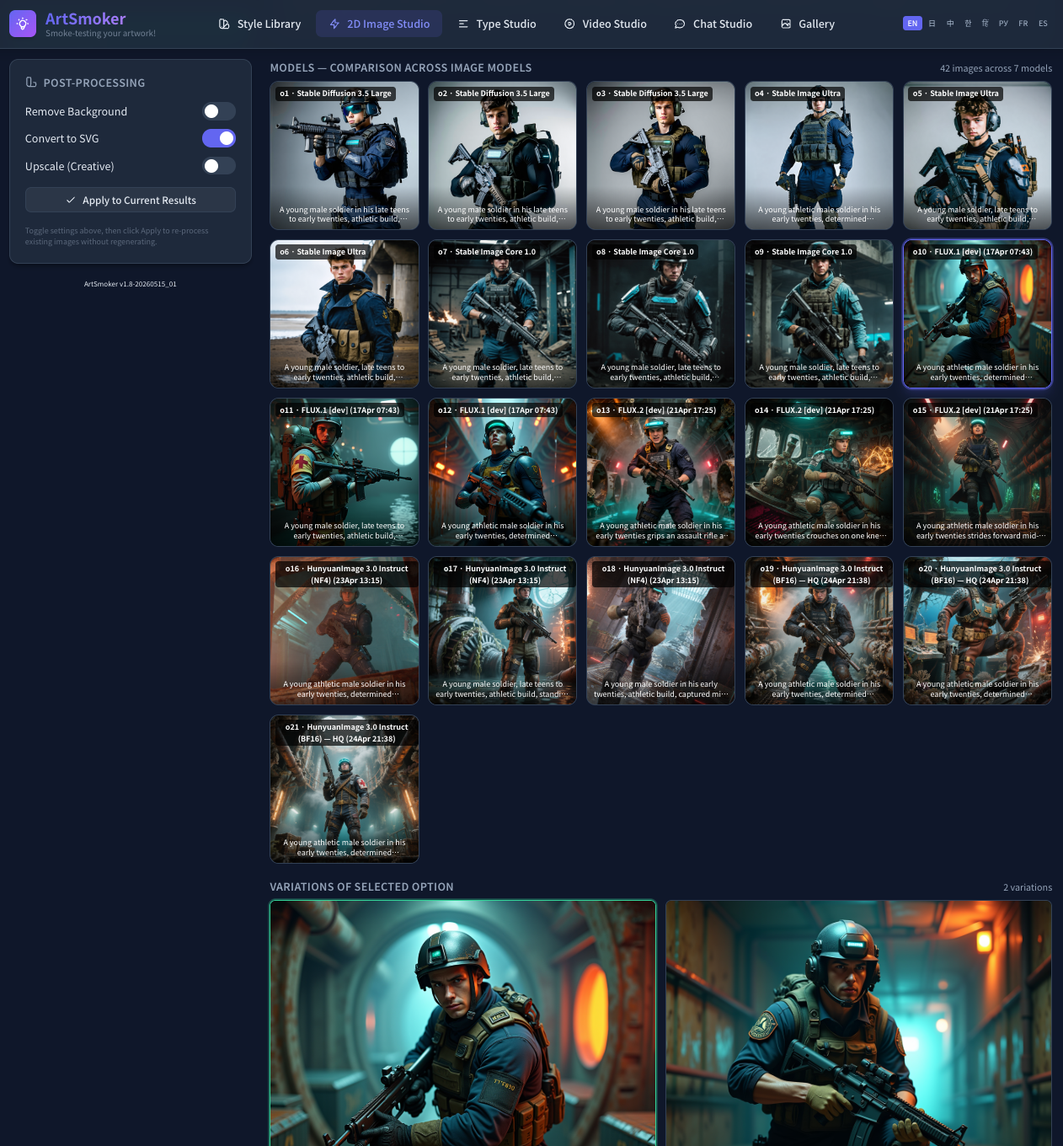
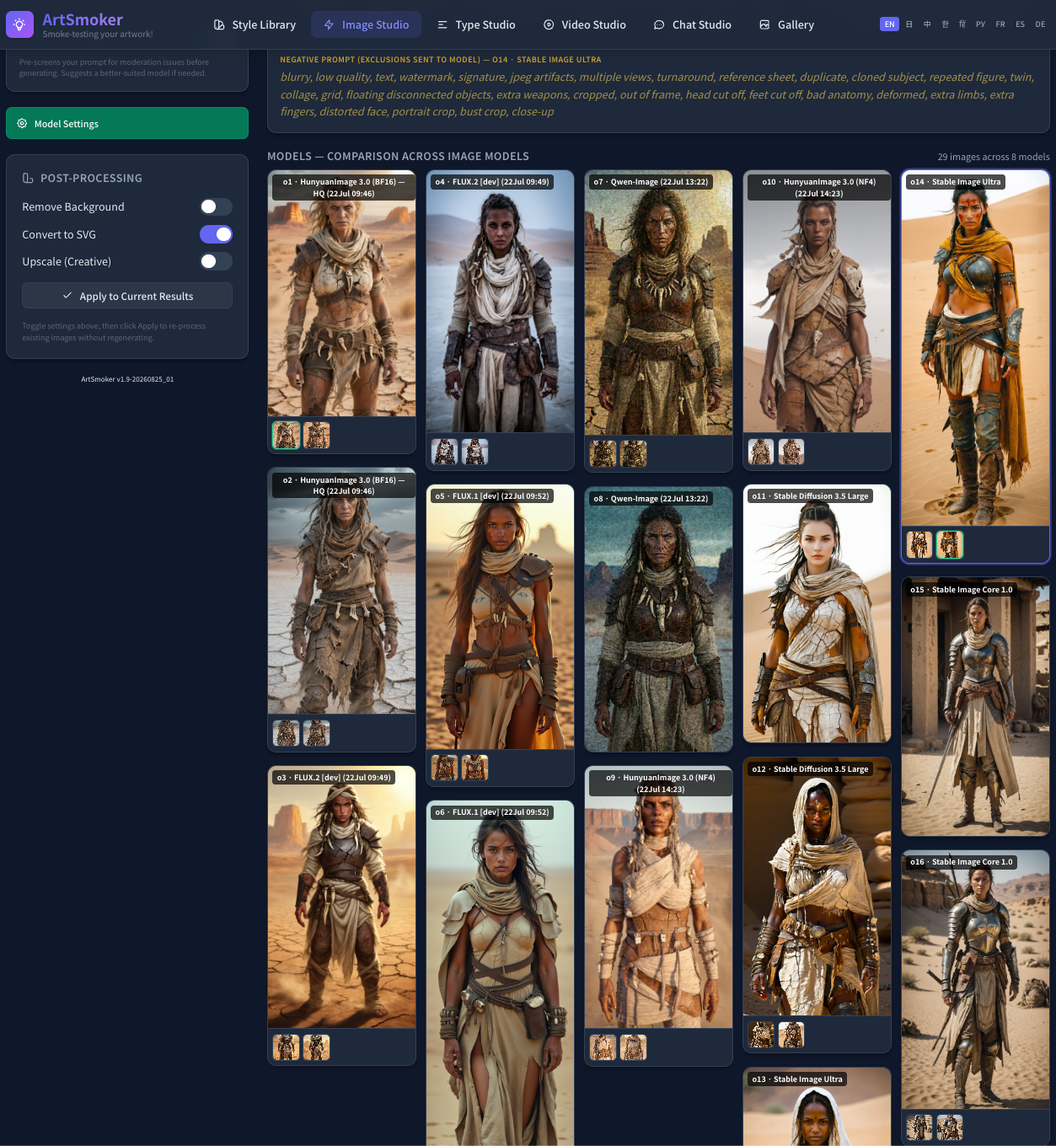
Docs: refresh all README screenshots to current UI + 8 new feature figures
The screenshot set dated from a much older ArtSmoker (old tab names, 7-model
grid, no Image Inspiration / Export & Cutouts / engine export / 3D variants).
Replaced with current-version captures and extended coverage; the soldier 3D
multi-angle figure (3d-model-result.png) stays — still accurate.

Replaced (same filenames): image-studio-top / -results / -comparison,
asset-viewer, asset-viewer-edit (now the Extend mode with ruler + ✨ Generate
Prompt), 3d-model-generation (endpoint chooser, license panel, Improve the
Source), gallery.

New figures: image-inspiration + image-inspiration-results (reference-guided
flow with editable enhanced-prompt preview), asset-viewer-export-cutouts +
-outpainted (per-version SVG/cutout artefacts, before/after outpainting),
asset-viewer-metadata (full prompt lineage + version history),
3d-source-review (automatic crop detection), 3d-model-viewer-export
(engine-ready FBX/USD options + ready-to-download chips), 3d-model-variants
(TripoSG vs TRELLIS.2 with provenance).

All 9 READMEs updated (EN + JA/ZH/KO/HI/RU/FR/ES/DE): four stale captions
corrected (tab lists, 8 models, current 3D params) and the new figure captions
natively translated; image reference set verified identical (24 refs) across
all languages, every file present, no unreferenced images left. Two
near-duplicate source shots dropped. Registry file carries the sync timestamp
from today's pricing refresh (data lives in the user overlay).

diff --git a/README.ru.md b/README.ru.md
@@ -120,9 +120,17 @@ ArtSmoker работает в двух режимах — **автономном
 
 ![2D Image Studio — Улучшенный промпт и результаты генерации](docs/images/image-studio-results.png)
 
-**2D Image Studio — Сравнение моделей** — Сетка сравнения бок о бок по всем выбранным моделям (показано 7 моделей). Вариации выбранного варианта отображаются ниже. Переключатели постобработки (Remove Background, Convert to SVG, Upscale) слева.
+**2D Image Studio — Сравнение моделей** — Сетка сравнения бок о бок по всем выбранным моделям (показано 8 — Amazon Bedrock и самостоятельно размещённые наравне). Каждая карточка варианта несёт собственную ленту вариаций; для выбранного варианта показан негативный промпт конкретной модели. Переключатели постобработки (Remove Background, Convert to SVG, Upscale) применяются к готовым результатам без повторной генерации.
 
 ![2D Image Studio — Мультимодельная сетка сравнения с вариациями](docs/images/image-studio-comparison.png)
+
+**Image Inspiration (по референсу)** — Перетащите 1–3 референсных изображения, опишите, что вам нужно, и выберите способ использования: **Точно по референсу** (пиксельно-точное редактирование на развёрнутой модели редактирования изображений) или **Вдохновлено референсом** (визуальный ИИ пишет улучшенный промпт — работает с любым выбором моделей, вариантов и вариаций). Полученный промпт можно просмотреть и полностью отредактировать до генерации.
+
+![Image Inspiration — референсные изображения, инструкция и редактируемый предпросмотр улучшенного промпта](docs/images/image-inspiration.png)
+
+**Image Inspiration — Результаты** — Референс становится новым произведением (здесь — шарж по референсной фотографии); записываются точный промпт, отправленный модели, и стоимость каждого изображения.
+
+![Image Inspiration — шарж, сгенерированный по референсному изображению](docs/images/image-inspiration-results.png)
 
 **Prompt Designer** — ИИ разбирает ваш промпт на редактируемые визуальные компоненты (Subject, Scene, Composition, Lighting, Style & Colors). Каждое поле можно индивидуально редактировать с переключателями «зафиксировать/варьировать» для создания действительно различных творческих вариантов.
 
@@ -142,17 +150,41 @@ ArtSmoker работает в двух режимах — **автономном
 
 ![Галерея — Сетка сгенерированных ассетов с фильтрами](docs/images/gallery.png)
 
-**Asset Viewer** — Полноразмерный предпросмотр с табличным интерфейсом (PNG, Edit, SVG, Metadata, 3D Model). Скачивание PNG и SVG напрямую. Компоновка прозрачного фона показана с шахматным узором.
+**Asset Viewer** — Полноразмерный предпросмотр с вкладками (PNG, Edit, Export & Cutouts, Metadata, 3D Model), панелью версий изображения и прямым скачиванием PNG/SVG. Управление зумом/подгонкой/измерением поверх изображения на шахматном фоне.
 
 ![Asset Viewer — Полноразмерный предпросмотр с опциями скачивания](docs/images/asset-viewer.png)
 
-**Asset Viewer — Редактирование изображений** — Вкладка Edit с инпейнтингом: нарисуйте маску на области для изменения, опишите, что хотите получить, выберите модель редактирования и примените. История версий сохраняется — оригиналы никогда не перезаписываются.
+**Asset Viewer — Редактирование изображений** — Пять режимов: Заполнить/Заменить, Удалить, Расширить, Найти и заменить, Перекрасить. Показан режим **Расширить**: измерительная линейка, пиксельные значения по сторонам и кнопка ✨ Сгенерировать промпт, которая читает изображение и пишет промпт редактирования за вас. История версий сохраняется — оригиналы никогда не перезаписываются.
 
-![Asset Viewer — Инпейнтинг с маской и промптом](docs/images/asset-viewer-edit.png)
+![Asset Viewer — Расширение с измерительной линейкой и промптом от ИИ](docs/images/asset-viewer-edit.png)
 
-**Генерация 3D-моделей** — Конвертируйте любое изображение Game Asset или Character в текстурированный 3D-меш (GLB). Настройте разрешение marching cubes, соотношение переднего плана и параметры генерации прямо во вкладке 3D Model в Asset Viewer.
+**Asset Viewer — Export & Cutouts** — Артефакты для каждой версии, готовые для игры, движка или дизайн-инструмента: векторный SVG всего изображения, вырезка PNG без фона и вырезка SVG. Удаление фона выполняется на вашем устройстве бесплатно (опционально — платная обработка Amazon Bedrock).
+
+![Asset Viewer — Export & Cutouts с векторным SVG и вырезками без фона](docs/images/asset-viewer-export-cutouts.png)
+
+После раунда аутпейнтинга (v3 ниже) та же вкладка заново создаёт все три артефакта для улучшенной версии в полный рост.
+
+![Asset Viewer — Export & Cutouts для расширенной версии в полный рост](docs/images/asset-viewer-export-cutouts-outpainted.png)
+
+**Asset Viewer — Metadata** — Полная родословная промпта (ваш промпт → декомпозиция Prompt Designer → рекомпозированный промпт → доработанный под модель промпт), детали генерации, разбивка стоимости и полная история версий.
+
+![Asset Viewer — Metadata с полной родословной промпта и историей версий](docs/images/asset-viewer-metadata.png)
+
+**Генерация 3D-моделей** — Вкладка 3D Model в Asset Viewer: выберите эндпоинт развёрнутого пайплайна, уровень качества (с оценкой времени и стоимости) и расширенные параметры. Панель лицензий показывает условия каждого пайплайна, а **Improve the Source** визуально проверяет изображение до траты GPU-времени.
 
 ![Генерация 3D-моделей — Настройки и генерация в Asset Viewer](docs/images/3d-model-generation.png)
+
+**Improve the Source** — Перед генерацией ArtSmoker измеряет силуэт объекта и отмечает обрезку (здесь: срез по нижнему краю), предлагая величину расширения и промпт аутпейнтинга, написанный ИИ, — расширьте, заполните или используйте изображение как есть.
+
+![Проверка 3D-исходника — автоматическое определение обрезки с предложенным расширением](docs/images/3d-source-review.png)
+
+**3D-просмотрщик + экспорт для движков** — Осмотрите текстурированный меш со всех сторон, затем подготовьте его для движка: целевой пресет (Unreal, Unity, Godot, Blender, 3ds Max…), упаковка текстур, цепочка LOD, коллизионный меш и лайтмап UV2 — конвертация выполняется локально через безголовый Blender, а готовые к скачиванию комбинации запоминаются для каждой версии.
+
+![3D-просмотрщик с инструментами по вариантам и экспортом FBX/USD для движков](docs/images/3d-model-viewer-export.png)
+
+**3D-варианты** — Храните несколько 3D-результатов на версию изображения (здесь TripoSG против полного пайплайна TRELLIS.2), переключайтесь между ними или назначайте вариант по умолчанию в любой момент; каждый вариант записывает точные модели и инструменты, которыми был создан.
+
+![3D-варианты — TripoSG и TRELLIS.2 бок о бок с полным происхождением](docs/images/3d-model-variants.png)
 
 **Video Studio** — Настройки слева (модель, режим генерации, длительность, регион, оценка стоимости), промпт справа. Поддерживает Nova Reel (одиночный кадр, мультишот авто/ручной до 2 минут) и Luma AI Ray (соотношения сторон, зацикливание).
 

diff --git a/README.fr.md b/README.fr.md
@@ -120,9 +120,17 @@ Pour les équipes qui veulent que chaque asset généré corresponde à un style
 
 ![2D Image Studio — Prompt amélioré et résultats de génération](docs/images/image-studio-results.png)
 
-**2D Image Studio — Comparaison de modèles** — Grille de comparaison côte à côte de tous les modèles sélectionnés (7 modèles affichés). Les variations de l'option sélectionnée sont affichées en dessous. Bascules de post-traitement à gauche (Remove Background, Convert to SVG, Upscale).
+**2D Image Studio — Comparaison de modèles** — Grille de comparaison côte à côte de tous les modèles sélectionnés (8 affichés — Amazon Bedrock et auto-hébergés à égalité). Chaque carte d'option porte sa propre bande de variations ; le prompt négatif propre au modèle est affiché pour l'option sélectionnée. Les bascules de post-traitement (Remove Background, Convert to SVG, Upscale) s'appliquent aux résultats existants sans régénération.
 
 ![2D Image Studio — Grille de comparaison multi-modèle avec variations](docs/images/image-studio-comparison.png)
+
+**Image Inspiration (guidée par référence)** — Déposez 1 à 3 images de référence, dites ce que vous voulez, et choisissez leur usage : **Fidèle à la référence** (édition fidèle au pixel sur un modèle d'édition d'images déployé) ou **Inspiré de la référence** (une IA de vision écrit le prompt enrichi — fonctionne avec n'importe quelle sélection de modèles, options et variations). Le prompt dérivé est prévisualisé et entièrement modifiable avant la génération.
+
+![Image Inspiration — images de référence, instruction et prévisualisation modifiable du prompt enrichi](docs/images/image-inspiration.png)
+
+**Image Inspiration — Résultats** — La référence devient une nouvelle création (ici, une caricature dessinée à partir de la photo de référence), avec le prompt exact envoyé au modèle et le coût par image enregistrés.
+
+![Image Inspiration — caricatures générées à partir d'une image de référence](docs/images/image-inspiration-results.png)
 
 **Prompt Designer** — L'IA décompose votre prompt en composants visuels éditables (Subject, Scene, Composition, Lighting, Style & Colors). Chaque champ peut être édité individuellement avec des contrôles verrouiller/varier pour des options créatives véritablement distinctes.
 
@@ -142,17 +150,41 @@ Pour les équipes qui veulent que chaque asset généré corresponde à un style
 
 ![Galerie — Grille d'assets générés avec filtres](docs/images/gallery.png)
 
-**Asset Viewer** — Aperçu en taille réelle avec interface à onglets (PNG, Edit, SVG, Metadata, 3D Model). Téléchargement direct des PNG et SVG. Compositing sur fond transparent affiché avec motif en damier.
+**Asset Viewer** — Aperçu en taille réelle avec interface à onglets (PNG, Edit, Export & Cutouts, Metadata, 3D Model), barre de versions de l'image et téléchargement direct PNG/SVG. Contrôles zoom/ajustement/mesure sur l'image composée en damier.
 
 ![Asset Viewer — Aperçu en taille réelle avec options de téléchargement](docs/images/asset-viewer.png)
 
-**Asset Viewer — Édition d'images** — Onglet Edit avec inpainting : peignez un masque sur la zone à modifier, décrivez ce que vous souhaitez, sélectionnez un modèle d'édition et appliquez. L'historique des versions est préservé — les originaux ne sont jamais écrasés.
+**Asset Viewer — Édition d'images** — Cinq modes d'édition : Remplir/Remplacer, Supprimer, Étendre, Rechercher et remplacer, Recolorer. Ici : **Étendre**, avec la règle de mesure, les valeurs en pixels par côté et le bouton ✨ Générer le prompt, qui lit l'image et écrit le prompt d'édition pour vous. L'historique des versions est préservé — les originaux ne sont jamais écrasés.
 
-![Asset Viewer — Inpainting avec masque et prompt](docs/images/asset-viewer-edit.png)
+![Asset Viewer — Extension avec règle de mesure et prompt suggéré par l'IA](docs/images/asset-viewer-edit.png)
 
-**Génération de modèle 3D** — Convertissez n'importe quelle image Game Asset ou Character en un maillage 3D texturé (GLB). Configurez la résolution des marching cubes, le ratio de premier plan et les paramètres de génération directement dans l'onglet 3D Model de l'Asset Viewer.
+**Asset Viewer — Export & Cutouts** — Des artefacts par version, prêts pour votre jeu, moteur ou outil de design : SVG vectoriel de l'image complète, découpe PNG sans arrière-plan et découpe SVG. La suppression d'arrière-plan s'exécute gratuitement sur votre machine (un traitement payant Amazon Bedrock est optionnel).
+
+![Asset Viewer — Export & Cutouts avec SVG vectoriel et découpes sans arrière-plan](docs/images/asset-viewer-export-cutouts.png)
+
+Après un passage d'outpainting (v3 ci-dessous), le même onglet régénère les trois artefacts pour la version corps entier améliorée.
+
+![Asset Viewer — Export & Cutouts pour la version corps entier après outpainting](docs/images/asset-viewer-export-cutouts-outpainted.png)
+
+**Asset Viewer — Metadata** — La généalogie complète du prompt (votre prompt → décomposition Prompt Designer → prompt recomposé → prompt raffiné adapté au modèle), les détails de génération, la ventilation des coûts et l'historique complet des versions.
+
+![Asset Viewer — Metadata avec généalogie complète du prompt et historique des versions](docs/images/asset-viewer-metadata.png)
+
+**Génération de modèle 3D** — L'onglet 3D Model de l'Asset Viewer : choisissez l'endpoint du pipeline déployé, le niveau de qualité (avec temps et coût estimés) et les paramètres avancés. Le panneau de licence affiche les conditions de chaque pipeline, et **Improve the Source** vérifie visuellement l'image avant de consommer du temps GPU.
 
 ![Génération de modèle 3D — Paramètres et génération dans l'Asset Viewer](docs/images/3d-model-generation.png)
+
+**Improve the Source** — Avant la génération, ArtSmoker mesure la silhouette du sujet et signale les recadrages (ici : coupé au bord inférieur), en suggérant les valeurs d'extension et un prompt d'outpainting écrit par l'IA — étendez, remplissez, ou utilisez l'image telle quelle.
+
+![Vérification de la source 3D — détection automatique de recadrage avec extension suggérée](docs/images/3d-source-review.png)
+
+**Visionneuse 3D + export prêt pour moteur** — Orbitez autour du maillage texturé, puis préparez-le pour votre moteur : préréglage cible (Unreal, Unity, Godot, Blender, 3ds Max…), packing de textures, chaîne de LOD, maillage de collision et lightmap UV2 — converti localement via Blender headless, avec les combinaisons prêtes au téléchargement mémorisées par version.
+
+![Visionneuse 3D avec outils par variante et options d'export FBX/USD prêtes pour moteur](docs/images/3d-model-viewer-export.png)
+
+**Variantes 3D** — Conservez plusieurs rendus 3D par version d'image (ici TripoSG contre le pipeline complet TRELLIS.2), basculez entre eux ou définissez le défaut à tout moment ; chaque variante enregistre les modèles et outils exacts qui l'ont produite.
+
+![Variantes 3D — TripoSG et TRELLIS.2 côte à côte avec provenance complète](docs/images/3d-model-variants.png)
 
 **Video Studio** — Paramètres à gauche (modèle, mode de génération, durée, région, estimation des coûts), prompt à droite. Prend en charge Nova Reel (plan unique, multi-shot auto/manuel jusqu'à 2 minutes) et Luma AI Ray (rapports d'aspect, boucle).
 

diff --git a/README.es.md b/README.es.md
@@ -120,9 +120,17 @@ Para equipos que desean que cada recurso generado coincida con un estilo artíst
 
 ![2D Image Studio — Prompt mejorado y resultados de generación](docs/images/image-studio-results.png)
 
-**2D Image Studio — Comparación de modelos** — Cuadrícula de comparación lado a lado de todos los modelos seleccionados (7 modelos mostrados). Las variaciones de la opción seleccionada se muestran abajo. Interruptores de postprocesamiento a la izquierda (Remove Background, Convert to SVG, Upscale).
+**2D Image Studio — Comparación de modelos** — Cuadrícula de comparación lado a lado de todos los modelos seleccionados (8 mostrados — Amazon Bedrock y autoalojados por igual). Cada tarjeta de opción lleva su propia tira de variaciones; para la opción seleccionada se muestra el prompt negativo específico del modelo. Los interruptores de postprocesamiento (Remove Background, Convert to SVG, Upscale) se aplican a los resultados existentes sin regenerar.
 
 ![2D Image Studio — Cuadrícula de comparación multimodelo con variaciones](docs/images/image-studio-comparison.png)
+
+**Image Inspiration (guiada por referencia)** — Suelta de 1 a 3 imágenes de referencia, di lo que quieres y elige cómo usarlas: **Fiel a la referencia** (edición fiel al píxel en un modelo de edición de imágenes desplegado) o **Inspirado en la referencia** (una IA de visión escribe el prompt mejorado — funciona con cualquier selección de modelos, opciones y variaciones). El prompt derivado se previsualiza y es totalmente editable antes de generar.
+
+![Image Inspiration — imágenes de referencia, instrucción y vista previa editable del prompt mejorado](docs/images/image-inspiration.png)
+
+**Image Inspiration — Resultados** — La referencia se convierte en una nueva creación (aquí, una caricatura dibujada a partir de la foto de referencia), registrando el prompt exacto enviado al modelo y el coste por imagen.
+
+![Image Inspiration — caricaturas generadas a partir de una imagen de referencia](docs/images/image-inspiration-results.png)
 
 **Prompt Designer** — La IA descompone su prompt en componentes visuales editables (Subject, Scene, Composition, Lighting, Style & Colors). Cada campo se puede editar individualmente con controles de bloquear/variar para opciones creativas genuinamente distintas.
 
@@ -142,17 +150,41 @@ Para equipos que desean que cada recurso generado coincida con un estilo artíst
 
 ![Galería — Cuadrícula de recursos generados con filtros](docs/images/gallery.png)
 
-**Asset Viewer** — Vista previa a tamaño completo con interfaz de pestañas (PNG, Edit, SVG, Metadata, 3D Model). Descarga directa de PNG y SVG. La composición de fondo transparente se muestra con un patrón de tablero de ajedrez.
+**Asset Viewer** — Vista previa a tamaño completo con interfaz de pestañas (PNG, Edit, Export & Cutouts, Metadata, 3D Model), barra de versiones de la imagen y descarga directa de PNG/SVG. Controles de zoom/ajuste/medición sobre la imagen compuesta en tablero de ajedrez.
 
 ![Asset Viewer — Vista previa a tamaño completo con opciones de descarga](docs/images/asset-viewer.png)
 
-**Asset Viewer — Edición de imágenes** — Pestaña Edit con inpainting: pinte una máscara sobre el área a cambiar, describa lo que desea, seleccione un modelo de edición y aplique. El historial de versiones se conserva — los originales nunca se sobrescriben.
+**Asset Viewer — Edición de imágenes** — Cinco modos de edición: Rellenar/Reemplazar, Eliminar, Extender, Buscar y reemplazar, Recolorear. En la imagen: **Extender**, con la regla de medición, los valores en píxeles por lado y el botón ✨ Generar prompt, que lee la imagen y escribe el prompt de edición por ti. El historial de versiones se conserva — los originales nunca se sobrescriben.
 
-![Asset Viewer — Inpainting con máscara y prompt](docs/images/asset-viewer-edit.png)
+![Asset Viewer — Extensión con regla de medición y prompt sugerido por la IA](docs/images/asset-viewer-edit.png)
 
-**Generación de modelo 3D** — Convierta cualquier imagen de Game Asset o Character en una malla 3D texturizada (GLB). Configure la resolución de marching cubes, la proporción de primer plano y los parámetros de generación directamente en la pestaña 3D Model del Asset Viewer.
+**Asset Viewer — Export & Cutouts** — Artefactos por versión listos para tu juego, motor o herramienta de diseño: SVG vectorial de la imagen completa, recorte PNG sin fondo y recorte SVG. La eliminación de fondo se ejecuta gratis en tu equipo (un procesado de pago con Amazon Bedrock es opcional).
+
+![Asset Viewer — Export & Cutouts con SVG vectorial y recortes sin fondo](docs/images/asset-viewer-export-cutouts.png)
+
+Tras una ronda de outpainting (v3 abajo), la misma pestaña regenera los tres artefactos para la versión de cuerpo entero mejorada.
+
+![Asset Viewer — Export & Cutouts para la versión de cuerpo entero tras outpainting](docs/images/asset-viewer-export-cutouts-outpainted.png)
+
+**Asset Viewer — Metadata** — El linaje completo del prompt (tu prompt → descomposición del Prompt Designer → prompt recompuesto → prompt refinado adaptado al modelo), detalles de generación, desglose de costes y el historial completo de versiones.
+
+![Asset Viewer — Metadata con linaje completo del prompt e historial de versiones](docs/images/asset-viewer-metadata.png)
+
+**Generación de modelo 3D** — La pestaña 3D Model del Asset Viewer: elige el endpoint del pipeline desplegado, el nivel de calidad (con tiempo y coste estimados) y los parámetros avanzados. El panel de licencia muestra las condiciones de cada pipeline, e **Improve the Source** revisa visualmente la imagen antes de gastar tiempo de GPU.
 
 ![Generación de modelo 3D — Configuración y generación en el Asset Viewer](docs/images/3d-model-generation.png)
+
+**Improve the Source** — Antes de generar, ArtSmoker mide la silueta del sujeto y señala los recortes (aquí: cortado en el borde inferior), sugiriendo los valores de extensión y un prompt de outpainting escrito por la IA — extiende, rellena o usa la imagen tal cual.
+
+![Revisión de la fuente 3D — detección automática de recorte con extensión sugerida](docs/images/3d-source-review.png)
+
+**Visor 3D + exportación lista para motores** — Orbita la malla texturizada y prepárala para tu motor: preajuste de destino (Unreal, Unity, Godot, Blender, 3ds Max…), empaquetado de texturas, cadena de LOD, malla de colisión y lightmap UV2 — convertido localmente mediante Blender sin interfaz, con las combinaciones listas para descargar recordadas por versión.
+
+![Visor 3D con herramientas por variante y opciones de exportación FBX/USD listas para motores](docs/images/3d-model-viewer-export.png)
+
+**Variantes 3D** — Conserva varios resultados 3D por versión de imagen (aquí TripoSG frente al pipeline completo TRELLIS.2), cambia entre ellos o fija el predeterminado en cualquier momento; cada variante registra los modelos y herramientas exactos que la produjeron.
+
+![Variantes 3D — TripoSG y TRELLIS.2 lado a lado con procedencia completa](docs/images/3d-model-variants.png)
 
 **Video Studio** — Configuración a la izquierda (modelo, modo de generación, duración, región, estimación de costos), prompt a la derecha. Compatible con Nova Reel (toma única, multi-toma automática/manual hasta 2 minutos) y Luma AI Ray (relaciones de aspecto, bucle).
 

diff --git a/README.de.md b/README.de.md
@@ -121,9 +121,17 @@ Für Teams, die möchten, dass jedes generierte Asset zu einem vorhandenen Kunst
 
 ![2D Image Studio — Verbesserter Prompt und Generierungsergebnisse](docs/images/image-studio-results.png)
 
-**2D Image Studio — Modellvergleich** — Vergleichsraster nebeneinander über alle ausgewählten Modelle (7 Modelle abgebildet). Variationen der ausgewählten Option werden darunter angezeigt. Nachbearbeitungs-Umschalter (Hintergrund entfernen, In SVG konvertieren, Hochskalieren) links.
+**2D Image Studio — Modellvergleich** — Vergleichsraster nebeneinander über alle ausgewählten Modelle (8 abgebildet — Amazon Bedrock und selbst gehostete gleichermaßen). Jede Options-Karte trägt ihren eigenen Variationen-Filmstreifen; für die ausgewählte Option wird der modellspezifische Negativ-Prompt angezeigt. Nachbearbeitungs-Umschalter (Hintergrund entfernen, In SVG konvertieren, Hochskalieren) wirken ohne Neugenerierung auf vorhandene Ergebnisse.
 
 ![2D Image Studio — Multi-Modell-Vergleichsraster mit Variationen](docs/images/image-studio-comparison.png)
+
+**Image Inspiration (referenzgeführt)** — Legen Sie 1–3 Referenzbilder ab, beschreiben Sie Ihr Ziel und wählen Sie die Verwendung: **Getreu der Referenz** (pixelgetreue Bearbeitung auf einem bereitgestellten Bildbearbeitungsmodell) oder **Von der Referenz inspiriert** (eine Vision-KI schreibt den erweiterten Prompt — funktioniert mit jeder Modellauswahl, allen Optionen und Variationen). Der abgeleitete Prompt wird vor der Generierung als Vorschau angezeigt und ist vollständig bearbeitbar.
+
+![Image Inspiration — Referenzbilder, Anweisung und bearbeitbare Vorschau des erweiterten Prompts](docs/images/image-inspiration.png)
+
+**Image Inspiration — Ergebnisse** — Die Referenz wird zu einer neuen Kreation (hier eine Karikatur nach dem Referenzfoto); der exakt an das Modell gesendete Prompt und die Kosten pro Bild werden festgehalten.
+
+![Image Inspiration — aus einem Referenzbild generierte Karikaturen](docs/images/image-inspiration-results.png)
 
 **Prompt Designer** — Die KI zerlegt Ihren Prompt in bearbeitbare visuelle Komponenten (Motiv, Szene, Komposition, Beleuchtung, Stil & Farben). Jedes Feld kann einzeln mit Sperren/Variieren-Steuerelementen für wirklich unterschiedliche kreative Optionen bearbeitet werden.
 
@@ -143,17 +151,41 @@ Für Teams, die möchten, dass jedes generierte Asset zu einem vorhandenen Kunst
 
 ![Galerie — Raster generierter Assets mit Filtern](docs/images/gallery.png)
 
-**Asset Viewer** — Vorschau in voller Größe mit Registerkarten-Oberfläche (PNG, Bearbeiten, SVG, Metadaten, 3D-Modell). Laden Sie PNG und SVG direkt herunter. Das Compositing des transparenten Hintergrunds wird mit einem Schachbrettmuster dargestellt.
+**Asset Viewer** — Vorschau in voller Größe mit Registerkarten-Oberfläche (PNG, Bearbeiten, Export & Cutouts, Metadaten, 3D-Modell), Bildversionsleiste und direktem PNG/SVG-Download. Zoom-/Einpassen-/Mess-Steuerung über dem schachbrett-komponierten Bild.
 
 ![Asset Viewer — Vorschau in voller Größe mit Download-Optionen](docs/images/asset-viewer.png)
 
-**Asset Viewer — Bildbearbeitung** — Registerkarte „Bearbeiten" mit Inpainting: Malen Sie eine Maske über den zu ändernden Bereich, beschreiben Sie, was Sie möchten, wählen Sie ein Bearbeitungsmodell und wenden Sie es an. Versionsverlauf bleibt erhalten — Originale werden nie überschrieben.
+**Asset Viewer — Bildbearbeitung** — Fünf Bearbeitungsmodi: Füllen/Ersetzen, Entfernen, Erweitern, Suchen & Ersetzen, Umfärben. Abgebildet: **Erweitern** mit Messlineal, Pixelwerten je Seite und dem ✨ Prompt-generieren-Button, der das Bild liest und den Bearbeitungs-Prompt für Sie schreibt. Versionsverlauf bleibt erhalten — Originale werden nie überschrieben.
 
-![Asset Viewer — Inpainting mit Maske und Prompt](docs/images/asset-viewer-edit.png)
+![Asset Viewer — Erweitern mit Messlineal und KI-vorgeschlagenem Prompt](docs/images/asset-viewer-edit.png)
 
-**3D-Modell-Generierung** — Wandeln Sie jedes Game-Asset- oder Character-Bild in ein texturiertes 3D-Mesh (GLB) um. Konfigurieren Sie die Marching-Cubes-Auflösung, das Vordergrundverhältnis und die Generierungsparameter direkt in der Registerkarte „3D-Modell" des Asset Viewers.
+**Asset Viewer — Export & Cutouts** — Artefakte je Version, bereit für Ihr Spiel, Ihre Engine oder Ihr Design-Tool: Vektor-SVG des Gesamtbilds, freigestelltes Cutout-PNG und Cutout-SVG. Die Hintergrundentfernung läuft kostenlos auf Ihrem Gerät (ein kostenpflichtiger Amazon-Bedrock-Durchlauf ist optional).
+
+![Asset Viewer — Export & Cutouts mit Vektor-SVG und freigestellten Cutouts](docs/images/asset-viewer-export-cutouts.png)
+
+Nach einer Outpainting-Runde (v3 unten) erzeugt dieselbe Registerkarte alle drei Artefakte für die verbesserte Ganzkörper-Version neu.
+
+![Asset Viewer — Export & Cutouts für die outgepaintete Ganzkörper-Version](docs/images/asset-viewer-export-cutouts-outpainted.png)
+
+**Asset Viewer — Metadaten** — Die vollständige Prompt-Herkunft (Ihr Prompt → Prompt-Designer-Zerlegung → rekomponierter Prompt → das modellspezifisch verfeinerte Prompt), Generierungsdetails, Kostenaufschlüsselung und der komplette Versionsverlauf.
+
+![Asset Viewer — Metadaten mit vollständiger Prompt-Herkunft und Versionsverlauf](docs/images/asset-viewer-metadata.png)
+
+**3D-Modell-Generierung** — Die Registerkarte „3D-Modell" des Asset Viewers: Wählen Sie den bereitgestellten Pipeline-Endpunkt, die Qualitätsstufe (mit geschätzter Zeit und Kosten) und erweiterte Parameter. Das Lizenz-Panel zeigt die Bedingungen jeder Pipeline, und **Improve the Source** prüft das Bild visuell, bevor GPU-Zeit anfällt.
 
 ![3D-Modell-Generierung — Einstellungen und Generierung im Asset Viewer](docs/images/3d-model-generation.png)
+
+**Improve the Source** — Vor der Generierung vermisst ArtSmoker die Silhouette des Motivs und markiert Beschnitte (hier: an der Unterkante abgeschnitten), schlägt Erweiterungswerte und einen KI-geschriebenen Outpainting-Prompt vor — erweitern, füllen oder das Bild unverändert verwenden.
+
+![3D-Quellprüfung — automatische Beschnitt-Erkennung mit vorgeschlagener Erweiterung](docs/images/3d-source-review.png)
+
+**3D-Viewer + Engine-fertiger Export** — Umkreisen Sie das texturierte Mesh und bereiten Sie es für Ihre Engine vor: Ziel-Preset (Unreal, Unity, Godot, Blender, 3ds Max …), Textur-Packing, LOD-Kette, Kollisionsmesh und Lightmap-UV2 — lokal per Headless-Blender konvertiert; download-fertige Kombinationen werden je Version gemerkt.
+
+![3D-Viewer mit Werkzeugen je Variante und Engine-fertigen FBX/USD-Exportoptionen](docs/images/3d-model-viewer-export.png)
+
+**3D-Varianten** — Behalten Sie mehrere 3D-Ergebnisse je Bildversion (hier TripoSG gegenüber der vollständigen TRELLIS.2-Pipeline), wechseln Sie jederzeit oder setzen Sie den Standard; jede Variante hält die exakten Modelle & Werkzeuge fest, mit denen sie erstellt wurde.
+
+![3D-Varianten — TripoSG und TRELLIS.2 nebeneinander mit vollständiger Provenienz](docs/images/3d-model-variants.png)
 
 **Video Studio** — Einstellungen links (Modell, Generierungsmodus, Dauer, Region, Kostenschätzung), Prompt rechts. Unterstützt Nova Reel (Einzelaufnahme, Multi-Shot auto/manuell bis zu 2 Minuten) und Luma AI Ray (Seitenverhältnisse, Loop).
 

diff --git a/README.md b/README.md
@@ -120,9 +120,17 @@ For teams that want every generated asset to match an existing art style — upl
 
 ![2D Image Studio — Enhanced prompt and generation results](docs/images/image-studio-results.png)
 
-**2D Image Studio — Model Comparison** — Side-by-side comparison grid across all selected models (7 models shown). Variations of the selected option displayed below. Post-processing toggles (Remove Background, Convert to SVG, Upscale) on the left.
+**2D Image Studio — Model Comparison** — Side-by-side comparison grid across all selected models (8 shown — Amazon Bedrock and self-hosted alike). Each option card carries its own variation filmstrip; the per-model negative prompt is shown for the selected option. Post-processing toggles (Remove Background, Convert to SVG, Upscale) apply to existing results without regenerating.
 
 ![2D Image Studio — Multi-model comparison grid with variations](docs/images/image-studio-comparison.png)
+
+**Image Inspiration (reference-guided)** — Drop 1–3 reference images, say what you want, and pick how they're used: **Match the reference** (pixel-faithful edit on a deployed image-editing model) or **Inspired by the reference** (a vision AI writes the enhanced prompt — works with any model selection, options, and variations). The derived prompt is previewed and fully editable before generating.
+
+![Image Inspiration — reference images, instruction, and the editable enhanced-prompt preview](docs/images/image-inspiration.png)
+
+**Image Inspiration — Results** — The reference becomes a new creation (here, a caricature drawn from the reference photo), with the exact prompt sent to the model and the per-image cost recorded.
+
+![Image Inspiration — generated caricature results from a reference image](docs/images/image-inspiration-results.png)
 
 **Prompt Designer** — AI decomposes your prompt into editable visual components (Subject, Scene, Composition, Lighting, Style & Colors). Each field can be individually edited with lock/vary controls for genuinely distinct creative options.
 
@@ -142,17 +150,41 @@ For teams that want every generated asset to match an existing art style — upl
 
 ![Gallery — Generated assets grid with filters](docs/images/gallery.png)
 
-**Asset Viewer** — Full-size preview with tabbed interface (PNG, Edit, SVG, Metadata, 3D Model). Download PNG and SVG directly. Transparent background compositing shown with checkerboard pattern.
+**Asset Viewer** — Full-size preview with tabbed interface (PNG, Edit, Export & Cutouts, Metadata, 3D Model), the image version bar, and direct PNG/SVG downloads. Zoom/fit/measure controls over the checkerboard-composited image.
 
 ![Asset Viewer — Full-size preview with download options](docs/images/asset-viewer.png)
 
-**Asset Viewer — Image Editing** — Edit tab with inpainting: paint a mask over the area to change, describe what you want, select an editing model, and apply. Version history preserved — originals are never overwritten.
+**Asset Viewer — Image Editing** — Five edit modes: Fill/Replace, Remove, Extend, Find & Replace, Recolor. Shown: **Extend** with the measurement ruler, per-side pixel amounts, and the ✨ Generate Prompt button that reads the image and writes the edit prompt for you. Version history preserved — originals are never overwritten.
 
-![Asset Viewer — Inpainting with mask and prompt](docs/images/asset-viewer-edit.png)
+![Asset Viewer — Extend editing with measurement ruler and AI-suggested prompt](docs/images/asset-viewer-edit.png)
 
-**3D Model Generation** — Convert any Game Asset or Character image into a textured 3D mesh (GLB). Configure marching cubes resolution, foreground ratio, and generation parameters directly in the Asset Viewer's 3D Model tab.
+**Asset Viewer — Export & Cutouts** — Per-version artefacts ready for your game, engine, or design tool: full-image vector SVG, background-removed cutout PNG, and cutout SVG. Background removal runs on-device for free (a paid Amazon Bedrock pass is optional).
+
+![Asset Viewer — Export & Cutouts with vector SVG and background-removed cutouts](docs/images/asset-viewer-export-cutouts.png)
+
+After an outpainting round (v3 below), the same tab regenerates all three artefacts for the improved full-body version.
+
+![Asset Viewer — Export & Cutouts for the outpainted full-body version](docs/images/asset-viewer-export-cutouts-outpainted.png)
+
+**Asset Viewer — Metadata** — The full prompt lineage (your prompt → Prompt Designer decomposition → recomposed prompt → the model-tailored refined prompt), generation details, cost breakdown, and the complete version history.
+
+![Asset Viewer — Metadata with full prompt lineage and version history](docs/images/asset-viewer-metadata.png)
+
+**3D Model Generation** — The Asset Viewer's 3D Model tab: pick the deployed pipeline endpoint, quality tier (with est. time and cost), and advanced parameters. The licence panel shows each pipeline's terms, and **Improve the Source** vision-checks the image before you spend GPU time.
 
 ![3D Model Generation — Settings and generation in the Asset Viewer](docs/images/3d-model-generation.png)
+
+**Improve the Source** — Before generating, ArtSmoker measures the subject's silhouette and flags crops (here: cut off at the bottom edge), suggesting extension amounts and an AI-written outpaint prompt — extend, fill, or use the image as-is.
+
+![3D source review — automatic crop detection with suggested extension](docs/images/3d-source-review.png)
+
+**3D viewer + engine-ready export** — Orbit the textured mesh, then prepare it for your engine: target preset (Unreal, Unity, Godot, Blender, 3ds Max, …), texture packing, LOD chain, collision mesh, and lightmap UV2 — converted locally via headless Blender, with ready-to-download combinations remembered per version.
+
+![3D Model viewer with per-variant tools and engine-ready FBX/USD export options](docs/images/3d-model-viewer-export.png)
+
+**3D variants** — Keep multiple 3D takes per image version (here TripoSG vs the TRELLIS.2 full pipeline), switch between them or set the default at any time; every variant records the exact models & tools that produced it.
+
+![3D variants — TripoSG and TRELLIS.2 takes side by side with full provenance](docs/images/3d-model-variants.png)
 
 **Video Studio** — Settings on the left (model, generation mode, duration, region, cost estimate), prompt on the right. Supports Nova Reel (single shot, multi-shot auto/manual up to 2 minutes) and Luma AI Ray (aspect ratios, looping).
 
